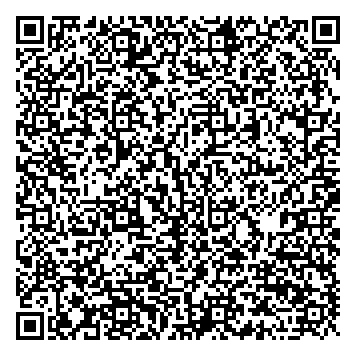
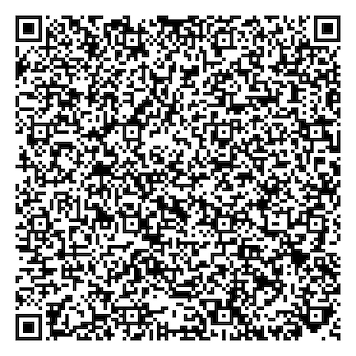
SG: Add updated sample certificates

diff --git a/SG/README.md b/SG/README.md
@@ -8,11 +8,13 @@ This directory contains test files produced by the [Notαrise](https://www.notar
 
 ### 1 - Vaccination certificate
 
-[1.json](2DCode/raw/1.json) - Basic DGC with a second dose vaccination certificate entry.
+[1.json](2DCode/raw/1.json) - Basic DGC with primary series of vaccination certificate entry.
+[1-booster.json](2DCode/raw/1-booster.json) - Basic DGC with booster series of vaccination certificate entry.
 
 All tests should be successful.
 
 ![1](png/1.png)
+![1-booster](png/1-booster.png)
 
 ### 2 - Test certificate: NAT
 
